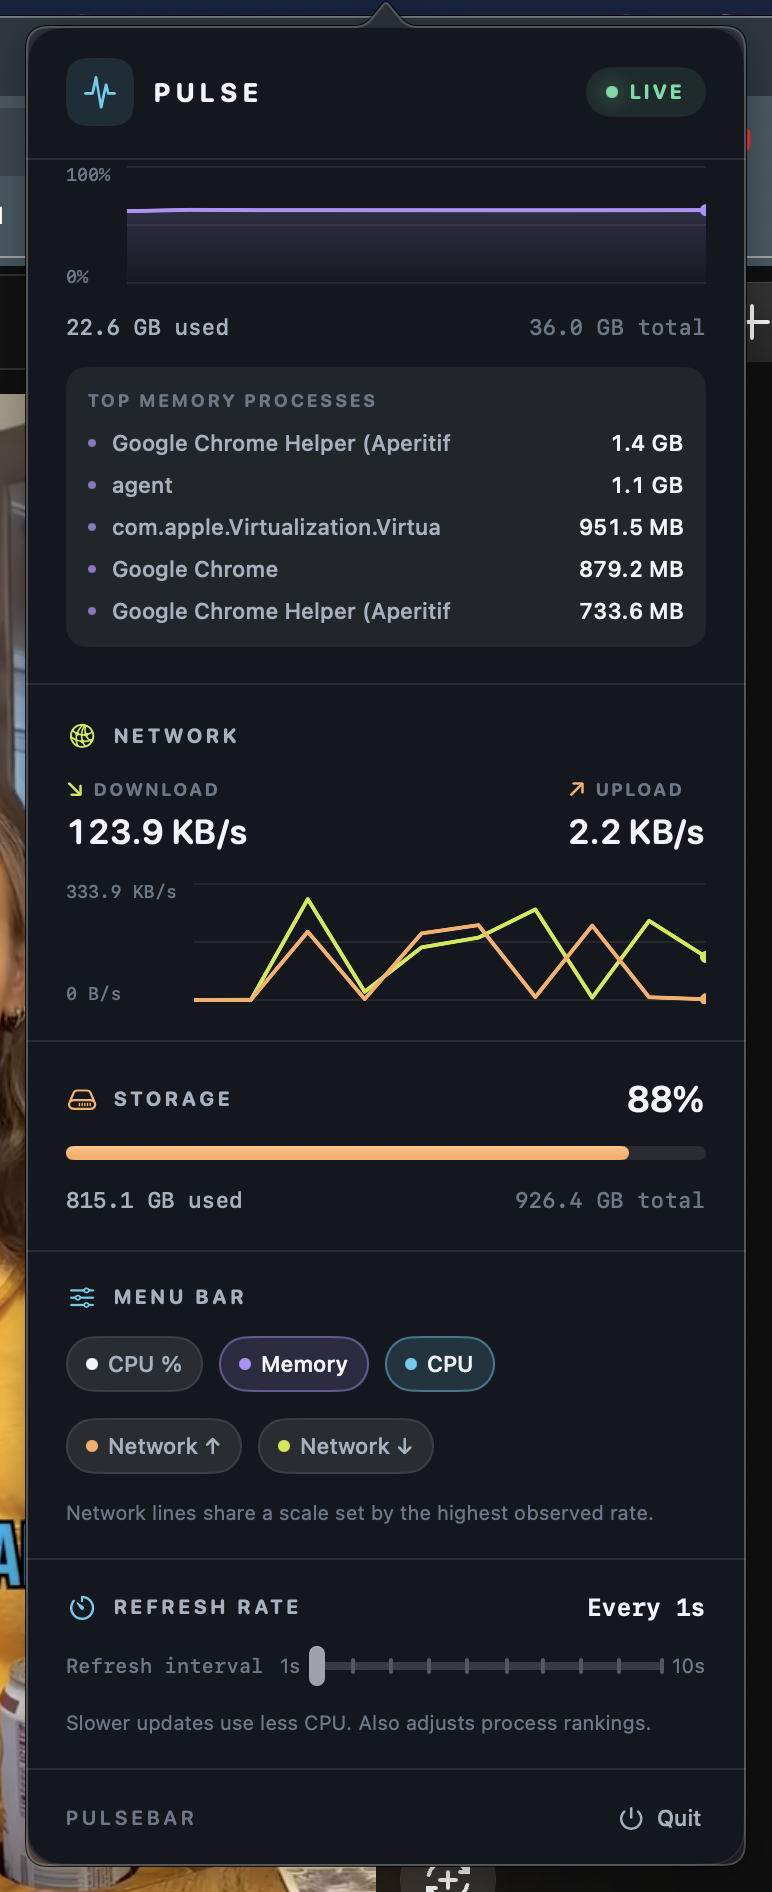
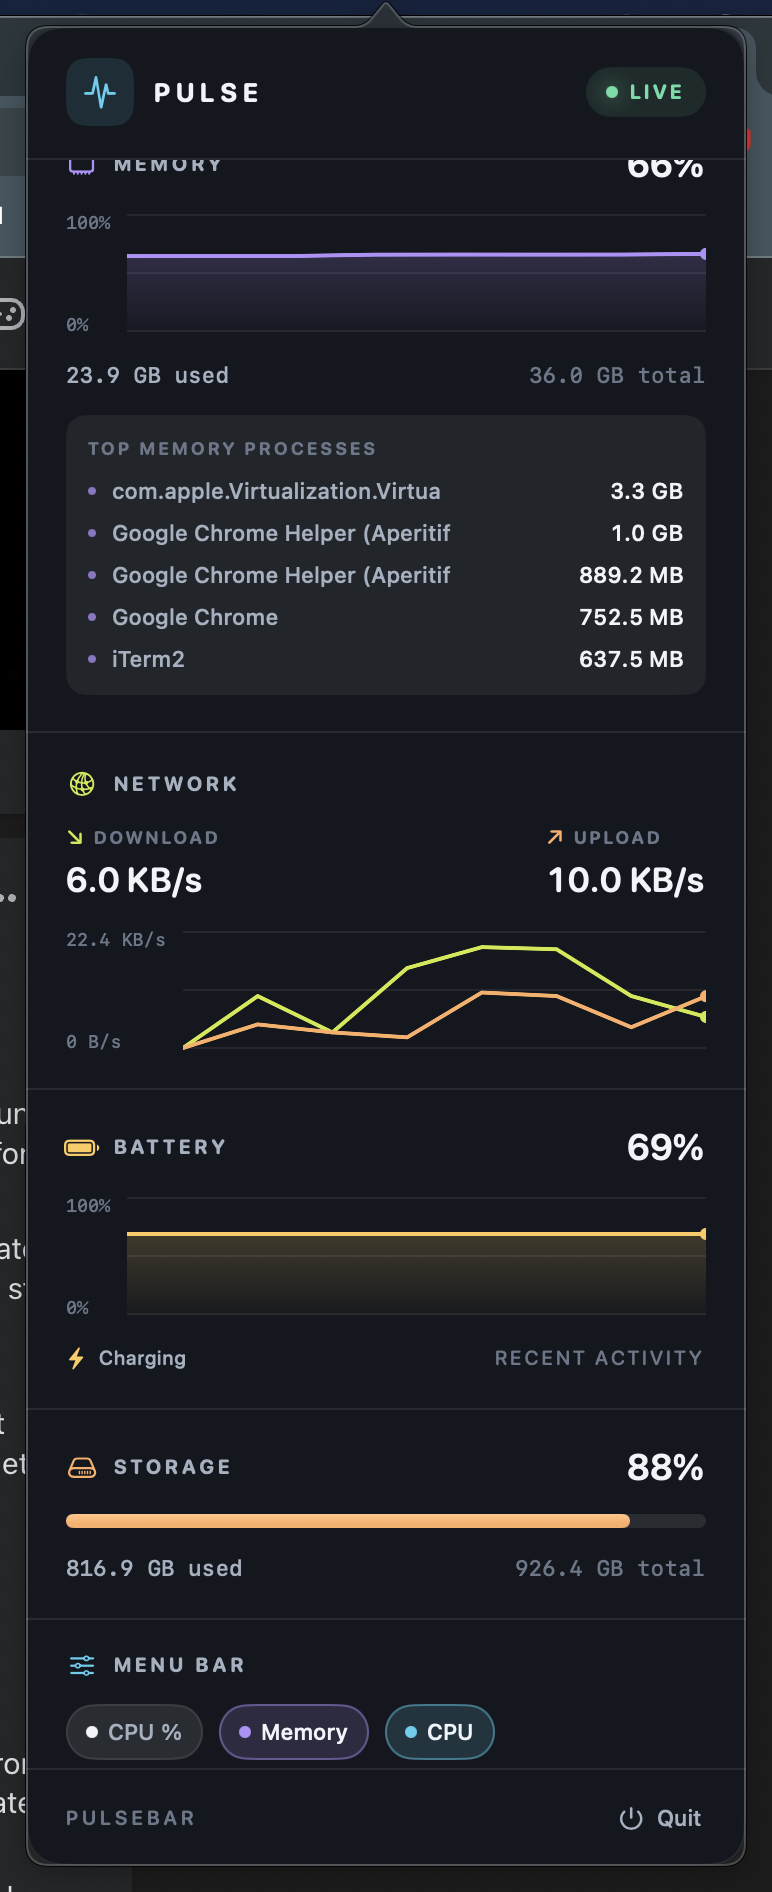
Add battery charge history and charging status

diff --git a/Sources/PulseBar/MonitorView.swift b/Sources/PulseBar/MonitorView.swift
@@ -29,6 +29,10 @@ struct MonitorView: View {
                     memorySection
                     separator
                     networkSection
+                    if snapshot.battery != nil {
+                        separator
+                        batterySection
+                    }
                     separator
                     diskSection
                     separator
@@ -181,6 +185,47 @@ struct MonitorView: View {
                 .accessibilityLabel("Network history, zero to \(byteString(networkCeiling)) per second")
             }
             .frame(height: 62)
+        }
+        .padding(.horizontal, 20)
+        .padding(.vertical, 18)
+    }
+
+    private var batterySection: some View {
+        let battery = snapshot.battery
+        let batteryColor = Palette.battery
+        return VStack(alignment: .leading, spacing: 13) {
+            HStack {
+                sectionLabel("BATTERY", symbol: "battery.100percent", color: batteryColor)
+                Spacer()
+                Text(percent(battery?.level ?? 0))
+                    .font(.system(size: 18, weight: .semibold, design: .rounded))
+                    .monospacedDigit()
+                    .foregroundStyle(Palette.primary)
+            }
+            HStack(spacing: 8) {
+                graphAxis(top: "100%", bottom: "0%")
+                MonitorGraph(
+                    series: [graphHistory.compactMap { $0.battery?.level }],
+                    colors: [batteryColor],
+                    ceiling: 1,
+                    fillFirst: true
+                )
+                .accessibilityLabel("Battery charge history, zero to one hundred percent")
+            }
+            .frame(height: 62)
+            HStack(spacing: 6) {
+                Image(systemName: battery?.isCharging == true ? "bolt.fill" :
+                      battery?.isPluggedIn == true ? "powerplug.fill" : "battery.100percent")
+                    .foregroundStyle(batteryColor)
+                Text(battery?.isCharging == true ? "Charging" :
+                     battery?.isPluggedIn == true ? "On power adapter" : "On battery")
+                    .foregroundStyle(Palette.secondary)
+                Spacer()
+                Text("RECENT ACTIVITY")
+                    .tracking(1)
+                    .foregroundStyle(Palette.muted)
+            }
+            .font(.system(size: 10, weight: .medium, design: .rounded))
         }
         .padding(.horizontal, 20)
         .padding(.vertical, 18)
@@ -453,6 +498,7 @@ private enum Palette {
     static let lime = Color(red: 0.81, green: 0.91, blue: 0.23)
     static let purple = Color(red: 0.69, green: 0.57, blue: 0.98)
     static let orange = Color(red: 1.0, green: 0.68, blue: 0.39)
+    static let battery = Color(red: 1.0, green: 0.79, blue: 0.34)
 }
 
 private struct MonitorGraph: View {

diff --git a/Sources/PulseBar/BatterySampler.swift b/Sources/PulseBar/BatterySampler.swift
@@ -1,0 +1,31 @@
+import Foundation
+import IOKit.ps
+
+struct BatteryReading: Sendable {
+    let level: Double // Fraction from 0 to 1.
+    let isCharging: Bool
+    let isPluggedIn: Bool
+}
+
+enum BatterySampler {
+    static func read() -> BatteryReading? {
+        let info = IOPSCopyPowerSourcesInfo().takeRetainedValue()
+        let sources = IOPSCopyPowerSourcesList(info).takeRetainedValue() as NSArray
+        for source in sources {
+            guard let description = IOPSGetPowerSourceDescription(info, source as CFTypeRef)?
+                .takeUnretainedValue() as? [String: Any],
+                description[kIOPSTypeKey] as? String == kIOPSInternalBatteryType,
+                description[kIOPSIsPresentKey] as? Bool == true,
+                let current = description[kIOPSCurrentCapacityKey] as? Int,
+                let maximum = description[kIOPSMaxCapacityKey] as? Int,
+                maximum > 0 else { continue }
+
+            return BatteryReading(
+                level: min(1, max(0, Double(current) / Double(maximum))),
+                isCharging: description[kIOPSIsChargingKey] as? Bool ?? false,
+                isPluggedIn: description[kIOPSPowerSourceStateKey] as? String == kIOPSACPowerValue
+            )
+        }
+        return nil
+    }
+}

diff --git a/Sources/PulseBar/Metrics.swift b/Sources/PulseBar/Metrics.swift
@@ -12,6 +12,7 @@ struct MetricSnapshot: Sendable {
     var upload: Double
     var diskUsed: UInt64
     var diskTotal: UInt64
+    var battery: BatteryReading?
 
     static let zero = MetricSnapshot(
         timestamp: .distantPast,
@@ -22,7 +23,8 @@ struct MetricSnapshot: Sendable {
         download: 0,
         upload: 0,
         diskUsed: 0,
-        diskTotal: 0
+        diskTotal: 0,
+        battery: nil
     )
 }
 
@@ -110,6 +112,7 @@ final class MonitorStore: ObservableObject {
         let (usedMemory, totalMemory) = memoryUsage() ?? (snapshot.usedMemory, snapshot.totalMemory)
         let (download, upload) = networkRates(at: now)
         let (diskUsed, diskTotal) = diskUsage() ?? (snapshot.diskUsed, snapshot.diskTotal)
+        let battery = BatterySampler.read()
 
         let current = MetricSnapshot(
             timestamp: now,
@@ -120,7 +123,8 @@ final class MonitorStore: ObservableObject {
             download: download,
             upload: upload,
             diskUsed: diskUsed,
-            diskTotal: diskTotal
+            diskTotal: diskTotal,
+            battery: battery
         )
         snapshot = current
         history.append(current)

diff --git a/Tests/Smoke.swift b/Tests/Smoke.swift
@@ -17,6 +17,14 @@ struct Smoke {
         precondition(sample.diskTotal > 0 && sample.diskUsed <= sample.diskTotal, "Invalid disk capacity")
         precondition(sample.download.isFinite && sample.download >= 0, "Invalid download")
         precondition(sample.upload.isFinite && sample.upload >= 0, "Invalid upload")
+        if let battery = BatterySampler.read() {
+            precondition((0...1).contains(battery.level), "Invalid battery percentage")
+            precondition(sample.battery != nil, "Battery missing from metric history")
+            precondition(abs((sample.battery?.level ?? 0) - battery.level) <= 0.05,
+                         "Battery history differs from power source")
+        } else {
+            precondition(sample.battery == nil, "No-battery machine should omit battery reading")
+        }
         store.setRefreshInterval(4)
         precondition(store.refreshInterval == 4, "Refresh rate did not change")
         let slowCount = store.history.count

diff --git a/README.md b/README.md
@@ -11,7 +11,7 @@ PulseBar keeps CPU and memory activity in view with two live sparklines. Click t
 - **At-a-glance activity:** teal CPU and purple memory sparklines, plus a live CPU percentage.
 - **Make it yours:** toggle the CPU percentage and each CPU, memory, download (lime), and upload (orange) graph line independently in the **MENU BAR** controls. Your choices persist across launches.
 - **A meaningful scale:** Unobstructed left-hand axes show 0–100% for CPU and memory. The network chart shows 0 B/s at the bottom and a live top rate based on the highest recent upload or download sample; hover for exact current readings.
-- **Click for detail:** CPU and memory history graphs with live Top 5 process lists, upload/download rates and history, and root-volume capacity. The panel scrolls so every section stays accessible.
+- **Click for detail:** CPU and memory history graphs with live Top 5 process lists, upload/download rates and history, battery charge history and charging state on laptops, and root-volume capacity. The panel scrolls so every section stays accessible.
 - **Adjustable refresh:** choose 1–10 seconds with the panel's refresh slider; the choice persists and changes both system and process sampling. Slower updates reduce CPU use.
 - **Lightweight and native:** a 60-sample rolling history, an AppKit menu-bar item, and a SwiftUI popover.
 - **Private by design:** metrics are collected locally. No account, analytics, network requests, or third-party packages.
@@ -42,7 +42,8 @@ swift build
 ./build.sh
 swiftc -swift-version 6 -target "$(uname -m)-apple-macosx13.0" \
   Sources/PulseBar/Metrics.swift Sources/PulseBar/ProcessSampler.swift \
-  Sources/PulseBar/DisplaySettings.swift Tests/Smoke.swift -o /tmp/pulsebar-smoke
+  Sources/PulseBar/BatterySampler.swift Sources/PulseBar/DisplaySettings.swift \
+  Tests/Smoke.swift -o /tmp/pulsebar-smoke
 /tmp/pulsebar-smoke
 ```
 
@@ -57,6 +58,7 @@ The bundled `Resources/PulseBar.icns` is generated from `scripts/GenerateIcon.sw
 | CPU | Delta of Mach host CPU ticks (idle versus total) |
 | Memory | Physical RAM minus free and inactive VM pages |
 | Network | Byte-counter deltas for active, non-loopback interfaces |
+| Battery | IOKit internal battery charge and AC/charging state (omitted on Macs without a battery) |
 | Storage | Root volume capacity and available space |
 
 Readings update at the selected 1–10 second interval; process rankings update at that same interval only while the panel is open. Per-process CPU is the change in process CPU time as a percentage of one logical CPU, so multithreaded processes can exceed 100%. Per-process memory is resident size, not the sum used by all related processes. Some protected processes cannot be read and are omitted. Memory usage is an approximation, **not** Activity Monitor's memory-pressure score. Network traffic through virtual/tunnel interfaces can be counted more than once. Graphs retain 60 samples (one to ten minutes, depending on the refresh setting) and reset on restart.
